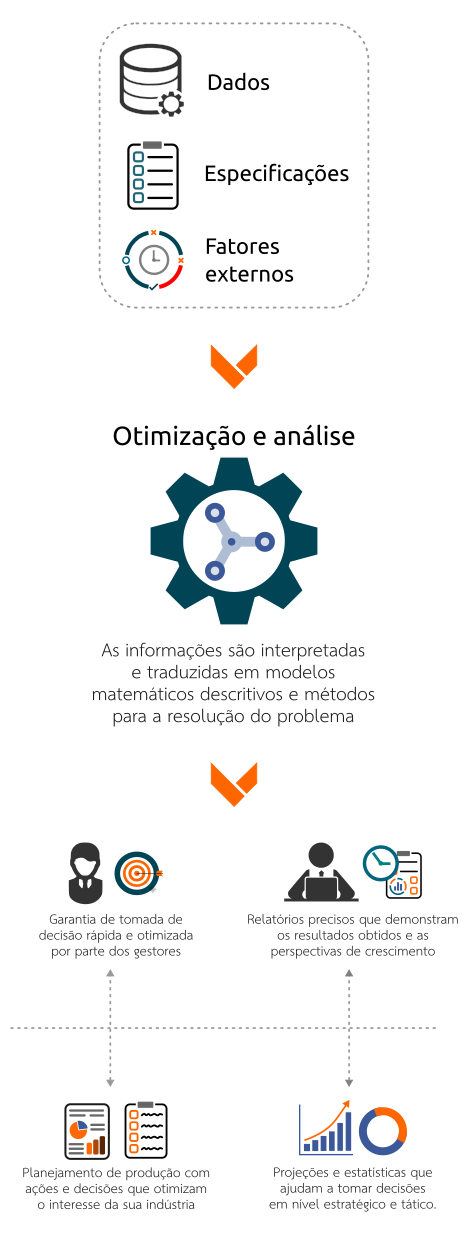
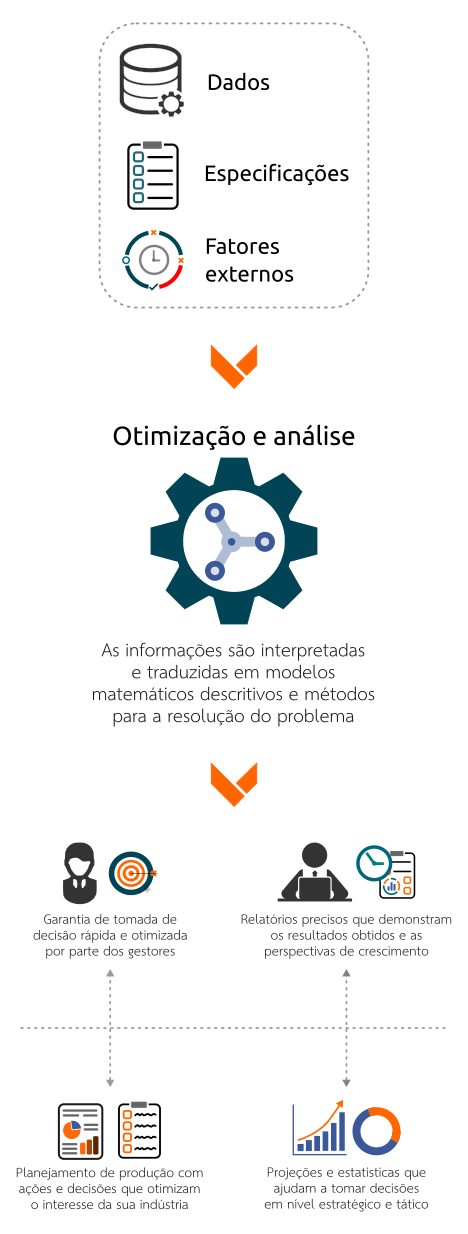
language update

diff --git a/index_en.html b/index_en.html
@@ -288,10 +288,10 @@
     <section class="metod" id="metod">
       <h1 id="h1_test">Development methodology</h1> 
       <div class="container-fluid small" id="metodo">
-          <img alt="" width="100%" src="img/metodologymobi.png"/>
+          <img alt="" width="100%" src="img/metodologymobi_en.png"/>
       </div>
       <div class="container-fluid full" id="metodo">
-          <img alt="" width="100%" src="img/metodology.png"/>
+          <img alt="" width="100%" src="img/metodology_en.png"/>
       </div>
     </section>
 
